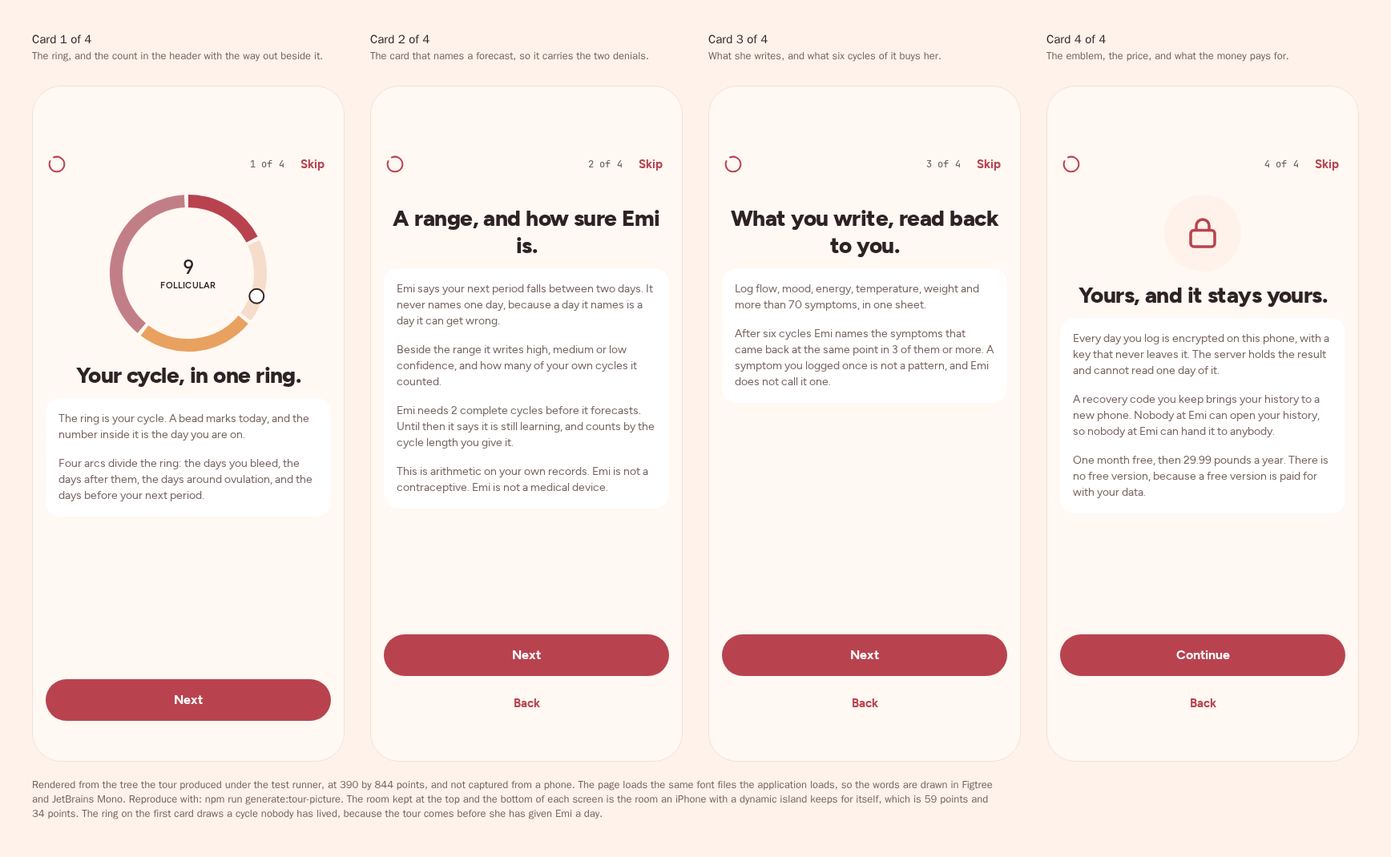
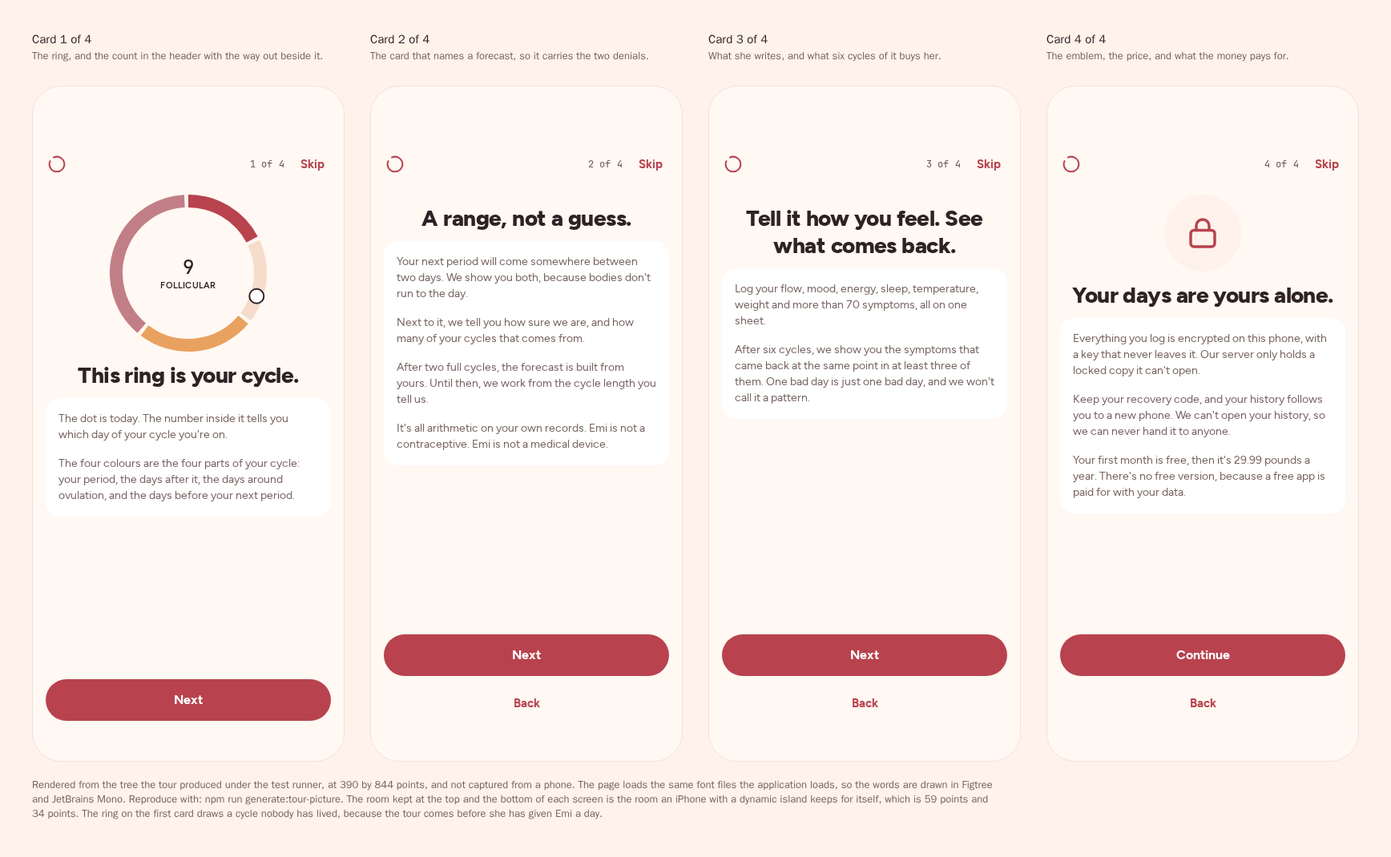
EMI: fix: the voice guide states the denials after a full stop, and the tour picture takes the new buttons

diff --git a/brand/screens/tour.html b/brand/screens/tour.html
@@ -28,4 +28,4 @@ svg { flex-shrink: 0; }
 .title { font-size: 15px; font-weight: 600; color: #2E2224; margin: 0 0 2px; }
 .note { font-size: 13px; color: #76625F; margin: 0 0 12px; min-height: 34px; }
 .caveat { font-size: 13px; color: #76625F; margin: 20px 0 0; max-width: 1200px; }
-</style></head><body><div class="screens"><section class="screen"><p class="title">Card 1 of 4</p><p class="note">The ring, and the count in the header with the way out beside it.</p><div class="phone"><div style="background-color: #FFF8F3; flex: 1; padding-bottom: 34px; padding-left: 0px; padding-right: 0px; padding-top: 59px"><div style="align-items: center; flex-direction: row; justify-content: space-between; padding-left: 16px; padding-right: 16px; padding-top: 16px"><svg width="28" height="28" viewBox="0 0 24 24"><g stroke="#b8434e" stroke-width="1.75" stroke-linecap="round" stroke-linejoin="round"><path d="M4.75 8.62A8 8 0 1 0 8.62 4.75" fill="none"></path></g></svg><div style="align-items: center; flex-direction: row; gap: 12px"><div style="color: #76625F; font-family: JetBrainsMono-Medium; font-size: 12px; letter-spacing: 0.24px; line-height: 16px">1 of 4</div><div style="align-items: center; justify-content: center; min-height: 44px; min-width: 44px; padding-left: 8px; padding-right: 8px"><div style="color: #B8434E; font-family: Figtree-Bold; font-size: 15px; letter-spacing: 0px; line-height: 21px">Skip</div></div></div></div><div style="flex: 1; overflow: hidden"><div style="gap: 12px; padding-bottom: 16px; padding-left: 16px; padding-right: 16px; padding-top: 16px; min-height: 100%"><div style="align-items: center; justify-content: center"><div style="align-items: center; justify-content: center; height: 196px; width: 196px"><div style="opacity: 1; transform: scale(1)"><svg width="196" height="196" viewBox="0 0 196 196"><g><path d="M 98 8 A 90 90 0 0 1 177.57 55.946" stroke="#b8434e" stroke-width="16" fill="none"></path><path d="M 179.662 135.832 A 90 90 0 0 1 169.606 152.521" stroke="#f5dccb" stroke-width="16" fill="none"></path><path d="M 179.662 60.168 A 90 90 0 0 1 179.662 135.832" stroke="#f5dccb" stroke-width="16" fill="none"></path><path d="M 166.655 156.194 A 90 90 0 0 1 43.479 169.606" stroke="#e9a15f" stroke-width="16" fill="none"></path><path d="M 39.806 166.655 A 90 90 0 0 1 93.29 8.123" stroke="#c27e86" stroke-width="16" fill="none"></path><circle cx="183.2776607498776" cy="126.77013342042032" r="9" fill="#ffffff" stroke="#2e2224" stroke-width="2"></circle></g></svg></div><div style="align-items: center; bottom: 0px; justify-content: center; left: 0px; position: absolute; right: 0px; top: 0px"><div style="color: #2E2224; font-family: JetBrainsMono-Medium; font-size: 24px; letter-spacing: -0.48px; line-height: 30px">9</div><div style="font-family: Figtree-SemiBold; font-size: 11px; letter-spacing: 0.22px; line-height: 15px; text-transform: uppercase; color: #2E2224">Follicular</div></div></div></div><div style="color: #2E2224; font-family: Figtree-ExtraBold; font-size: 28px; letter-spacing: -0.56px; line-height: 34px; text-align: center">Your cycle, in one ring.</div><div style="background-color: #FFFFFF; border-color: #F1E1D6; border-radius: 18px; border-width: 1px; padding: 16px"><div style="color: #76625F; font-family: Figtree-Regular; font-size: 14px; letter-spacing: 0px; line-height: 20px">The ring is your cycle. A bead marks today, and the number inside it is the day you are on.</div><div style="color: #76625F; font-family: Figtree-Regular; font-size: 14px; letter-spacing: 0px; line-height: 20px; border-top-color: #F1E1D6; border-top-width: 1px; margin-top: 8px; padding-top: 8px">Four arcs divide the ring: the days you bleed, the days after them, the days around ovulation, and the days before your next period.</div></div></div></div><div style="border-top-color: #F1E1D6; border-top-width: 1px; padding: 16px"><div style="align-items: center; border-radius: 999px; justify-content: center; min-height: 48px; min-width: 44px; padding-left: 28px; padding-right: 28px; min-height: 52px; padding-left: 40px; padding-right: 40px; background-color: #B8434E"><div style="color: #FFFFFF; font-family: Figtree-Bold; font-size: 16px; letter-spacing: 0px; line-height: 22px">Next</div></div></div></div></div></section><section class="screen"><p class="title">Card 2 of 4</p><p class="note">The card that names a forecast, so it carries the two denials.</p><div class="phone"><div style="background-color: #FFF8F3; flex: 1; padding-bottom: 34px; padding-left: 0px; padding-right: 0px; padding-top: 59px"><div style="align-items: center; flex-direction: row; justify-content: space-between; padding-left: 16px; padding-right: 16px; padding-top: 16px"><svg width="28" height="28" viewBox="0 0 24 24"><g stroke="#b8434e" stroke-width="1.75" stroke-linecap="round" stroke-linejoin="round"><path d="M4.75 8.62A8 8 0 1 0 8.62 4.75" fill="none"></path></g></svg><div style="align-items: center; flex-direction: row; gap: 12px"><div style="color: #76625F; font-family: JetBrainsMono-Medium; font-size: 12px; letter-spacing: 0.24px; line-height: 16px">2 of 4</div><div style="align-items: center; justify-content: center; min-height: 44px; min-width: 44px; padding-left: 8px; padding-right: 8px"><div style="color: #B8434E; font-family: Figtree-Bold; font-size: 15px; letter-spacing: 0px; line-height: 21px">Skip</div></div></div></div><div style="flex: 1; overflow: hidden"><div style="gap: 12px; padding-bottom: 16px; padding-left: 16px; padding-right: 16px; padding-top: 16px; min-height: 100%"><div style="align-items: center; justify-content: center"></div><div style="color: #2E2224; font-family: Figtree-ExtraBold; font-size: 28px; letter-spacing: -0.56px; line-height: 34px; text-align: center">A range, and how sure Emi is.</div><div style="background-color: #FFFFFF; border-color: #F1E1D6; border-radius: 18px; border-width: 1px; padding: 16px"><div style="color: #76625F; font-family: Figtree-Regular; font-size: 14px; letter-spacing: 0px; line-height: 20px">Emi says your next period falls between two days. It never names one day, because a day it names is a day it can get wrong.</div><div style="color: #76625F; font-family: Figtree-Regular; font-size: 14px; letter-spacing: 0px; line-height: 20px; border-top-color: #F1E1D6; border-top-width: 1px; margin-top: 8px; padding-top: 8px">Beside the range it writes high, medium or low confidence, and how many of your own cycles it counted.</div><div style="color: #76625F; font-family: Figtree-Regular; font-size: 14px; letter-spacing: 0px; line-height: 20px; border-top-color: #F1E1D6; border-top-width: 1px; margin-top: 8px; padding-top: 8px">Emi needs 2 complete cycles before it forecasts. Until then it says it is still learning, and counts by the cycle length you give it.</div><div style="color: #76625F; font-family: Figtree-Regular; font-size: 14px; letter-spacing: 0px; line-height: 20px; border-top-color: #F1E1D6; border-top-width: 1px; margin-top: 8px; padding-top: 8px">This is arithmetic on your own records. Emi is not a contraceptive. Emi is not a medical device.</div></div></div></div><div style="border-top-color: #F1E1D6; border-top-width: 1px; padding: 16px"><div style="align-items: center; border-radius: 999px; justify-content: center; min-height: 48px; min-width: 44px; padding-left: 28px; padding-right: 28px; min-height: 52px; padding-left: 40px; padding-right: 40px; background-color: #B8434E"><div style="color: #FFFFFF; font-family: Figtree-Bold; font-size: 16px; letter-spacing: 0px; line-height: 22px">Next</div></div><div style="align-items: center; padding-top: 12px"><div style="align-items: center; justify-content: center; min-height: 44px; min-width: 44px; padding-left: 8px; padding-right: 8px"><div style="color: #B8434E; font-family: Figtree-Bold; font-size: 15px; letter-spacing: 0px; line-height: 21px">Back</div></div></div></div></div></div></section><section class="screen"><p class="title">Card 3 of 4</p><p class="note">What she writes, and what six cycles of it buys her.</p><div class="phone"><div style="background-color: #FFF8F3; flex: 1; padding-bottom: 34px; padding-left: 0px; padding-right: 0px; padding-top: 59px"><div style="align-items: center; flex-direction: row; justify-content: space-between; padding-left: 16px; padding-right: 16px; padding-top: 16px"><svg width="28" height="28" viewBox="0 0 24 24"><g stroke="#b8434e" stroke-width="1.75" stroke-linecap="round" stroke-linejoin="round"><path d="M4.75 8.62A8 8 0 1 0 8.62 4.75" fill="none"></path></g></svg><div style="align-items: center; flex-direction: row; gap: 12px"><div style="color: #76625F; font-family: JetBrainsMono-Medium; font-size: 12px; letter-spacing: 0.24px; line-height: 16px">3 of 4</div><div style="align-items: center; justify-content: center; min-height: 44px; min-width: 44px; padding-left: 8px; padding-right: 8px"><div style="color: #B8434E; font-family: Figtree-Bold; font-size: 15px; letter-spacing: 0px; line-height: 21px">Skip</div></div></div></div><div style="flex: 1; overflow: hidden"><div style="gap: 12px; padding-bottom: 16px; padding-left: 16px; padding-right: 16px; padding-top: 16px; min-height: 100%"><div style="align-items: center; justify-content: center"></div><div style="color: #2E2224; font-family: Figtree-ExtraBold; font-size: 28px; letter-spacing: -0.56px; line-height: 34px; text-align: center">What you write, read back to you.</div><div style="background-color: #FFFFFF; border-color: #F1E1D6; border-radius: 18px; border-width: 1px; padding: 16px"><div style="color: #76625F; font-family: Figtree-Regular; font-size: 14px; letter-spacing: 0px; line-height: 20px">Log flow, mood, energy, temperature, weight and more than 70 symptoms, in one sheet.</div><div style="color: #76625F; font-family: Figtree-Regular; font-size: 14px; letter-spacing: 0px; line-height: 20px; border-top-color: #F1E1D6; border-top-width: 1px; margin-top: 8px; padding-top: 8px">After six cycles Emi names the symptoms that came back at the same point in 3 of them or more. A symptom you logged once is not a pattern, and Emi does not call it one.</div></div></div></div><div style="border-top-color: #F1E1D6; border-top-width: 1px; padding: 16px"><div style="align-items: center; border-radius: 999px; justify-content: center; min-height: 48px; min-width: 44px; padding-left: 28px; padding-right: 28px; min-height: 52px; padding-left: 40px; padding-right: 40px; background-color: #B8434E"><div style="color: #FFFFFF; font-family: Figtree-Bold; font-size: 16px; letter-spacing: 0px; line-height: 22px">Next</div></div><div style="align-items: center; padding-top: 12px"><div style="align-items: center; justify-content: center; min-height: 44px; min-width: 44px; padding-left: 8px; padding-right: 8px"><div style="color: #B8434E; font-family: Figtree-Bold; font-size: 15px; letter-spacing: 0px; line-height: 21px">Back</div></div></div></div></div></div></section><section class="screen"><p class="title">Card 4 of 4</p><p class="note">The emblem, the price, and what the money pays for.</p><div class="phone"><div style="background-color: #FFF8F3; flex: 1; padding-bottom: 34px; padding-left: 0px; padding-right: 0px; padding-top: 59px"><div style="align-items: center; flex-direction: row; justify-content: space-between; padding-left: 16px; padding-right: 16px; padding-top: 16px"><svg width="28" height="28" viewBox="0 0 24 24"><g stroke="#b8434e" stroke-width="1.75" stroke-linecap="round" stroke-linejoin="round"><path d="M4.75 8.62A8 8 0 1 0 8.62 4.75" fill="none"></path></g></svg><div style="align-items: center; flex-direction: row; gap: 12px"><div style="color: #76625F; font-family: JetBrainsMono-Medium; font-size: 12px; letter-spacing: 0.24px; line-height: 16px">4 of 4</div><div style="align-items: center; justify-content: center; min-height: 44px; min-width: 44px; padding-left: 8px; padding-right: 8px"><div style="color: #B8434E; font-family: Figtree-Bold; font-size: 15px; letter-spacing: 0px; line-height: 21px">Skip</div></div></div></div><div style="flex: 1; overflow: hidden"><div style="gap: 12px; padding-bottom: 16px; padding-left: 16px; padding-right: 16px; padding-top: 16px; min-height: 100%"><div style="align-items: center; justify-content: center"><div style="align-items: center; background-color: #FFF2EB; border-radius: 999px; height: 96px; justify-content: center; width: 96px"><svg width="48" height="48" viewBox="0 0 24 24"><g stroke="#b8434e" stroke-width="1.75" stroke-linecap="round" stroke-linejoin="round"><rect x="4.5" y="10.25" width="15" height="10.25" rx="2" fill="none"></rect><path d="M8 10.25V7.5a4 4 0 0 1 8 0v2.75" fill="none"></path></g></svg></div></div><div style="color: #2E2224; font-family: Figtree-ExtraBold; font-size: 28px; letter-spacing: -0.56px; line-height: 34px; text-align: center">Yours, and it stays yours.</div><div style="background-color: #FFFFFF; border-color: #F1E1D6; border-radius: 18px; border-width: 1px; padding: 16px"><div style="color: #76625F; font-family: Figtree-Regular; font-size: 14px; letter-spacing: 0px; line-height: 20px">Every day you log is encrypted on this phone, with a key that never leaves it. The server holds the result and cannot read one day of it.</div><div style="color: #76625F; font-family: Figtree-Regular; font-size: 14px; letter-spacing: 0px; line-height: 20px; border-top-color: #F1E1D6; border-top-width: 1px; margin-top: 8px; padding-top: 8px">A recovery code you keep brings your history to a new phone. Nobody at Emi can open your history, so nobody at Emi can hand it to anybody.</div><div style="color: #76625F; font-family: Figtree-Regular; font-size: 14px; letter-spacing: 0px; line-height: 20px; border-top-color: #F1E1D6; border-top-width: 1px; margin-top: 8px; padding-top: 8px">One month free, then 29.99 pounds a year. There is no free version, because a free version is paid for with your data.</div></div></div></div><div style="border-top-color: #F1E1D6; border-top-width: 1px; padding: 16px"><div style="align-items: center; border-radius: 999px; justify-content: center; min-height: 48px; min-width: 44px; padding-left: 28px; padding-right: 28px; min-height: 52px; padding-left: 40px; padding-right: 40px; background-color: #B8434E"><div style="color: #FFFFFF; font-family: Figtree-Bold; font-size: 16px; letter-spacing: 0px; line-height: 22px">Continue</div></div><div style="align-items: center; padding-top: 12px"><div style="align-items: center; justify-content: center; min-height: 44px; min-width: 44px; padding-left: 8px; padding-right: 8px"><div style="color: #B8434E; font-family: Figtree-Bold; font-size: 15px; letter-spacing: 0px; line-height: 21px">Back</div></div></div></div></div></div></section></div><p class="caveat">Rendered from the tree the tour produced under the test runner, at 390 by 844 points, and not captured from a phone. The page loads the same font files the application loads, so the words are drawn in Figtree and JetBrains Mono. Reproduce with: npm run generate:tour-picture. The room kept at the top and the bottom of each screen is the room an iPhone with a dynamic island keeps for itself, which is 59 points and 34 points. The ring on the first card draws a cycle nobody has lived, because the tour comes before she has given Emi a day.</p></body></html>
+</style></head><body><div class="screens"><section class="screen"><p class="title">Card 1 of 4</p><p class="note">The ring, and the count in the header with the way out beside it.</p><div class="phone"><div style="background-color: #FFF8F3; flex: 1; padding-bottom: 34px; padding-left: 0px; padding-right: 0px; padding-top: 59px"><div style="align-items: center; flex-direction: row; justify-content: space-between; padding-left: 16px; padding-right: 16px; padding-top: 16px"><svg width="28" height="28" viewBox="0 0 24 24"><g stroke="#b8434e" stroke-width="1.75" stroke-linecap="round" stroke-linejoin="round"><path d="M4.75 8.62A8 8 0 1 0 8.62 4.75" fill="none"></path></g></svg><div style="align-items: center; flex-direction: row; gap: 12px"><div style="color: #76625F; font-family: JetBrainsMono-Medium; font-size: 12px; letter-spacing: 0.24px; line-height: 16px">1 of 4</div><div style="align-items: center; justify-content: center; min-height: 44px; min-width: 44px; padding-left: 8px; padding-right: 8px"><div style="color: #B8434E; font-family: Figtree-Bold; font-size: 15px; letter-spacing: 0px; line-height: 21px">Skip</div></div></div></div><div style="flex: 1; overflow: hidden"><div style="gap: 12px; padding-bottom: 16px; padding-left: 16px; padding-right: 16px; padding-top: 16px; min-height: 100%"><div style="align-items: center; justify-content: center"><div style="align-items: center; justify-content: center; height: 196px; width: 196px"><div style="opacity: 1; transform: scale(1)"><svg width="196" height="196" viewBox="0 0 196 196"><g><path d="M 98 8 A 90 90 0 0 1 177.57 55.946" stroke="#b8434e" stroke-width="16" fill="none"></path><path d="M 179.662 135.832 A 90 90 0 0 1 169.606 152.521" stroke="#f5dccb" stroke-width="16" fill="none"></path><path d="M 179.662 60.168 A 90 90 0 0 1 179.662 135.832" stroke="#f5dccb" stroke-width="16" fill="none"></path><path d="M 166.655 156.194 A 90 90 0 0 1 43.479 169.606" stroke="#e9a15f" stroke-width="16" fill="none"></path><path d="M 39.806 166.655 A 90 90 0 0 1 93.29 8.123" stroke="#c27e86" stroke-width="16" fill="none"></path><circle cx="183.2776607498776" cy="126.77013342042032" r="9" fill="#ffffff" stroke="#2e2224" stroke-width="2"></circle></g></svg></div><div style="align-items: center; bottom: 0px; justify-content: center; left: 0px; position: absolute; right: 0px; top: 0px"><div style="color: #2E2224; font-family: JetBrainsMono-Medium; font-size: 24px; letter-spacing: -0.48px; line-height: 30px">9</div><div style="font-family: Figtree-SemiBold; font-size: 11px; letter-spacing: 0.22px; line-height: 15px; text-transform: uppercase; color: #2E2224">Follicular</div></div></div></div><div style="color: #2E2224; font-family: Figtree-ExtraBold; font-size: 28px; letter-spacing: -0.56px; line-height: 34px; text-align: center">This ring is your cycle.</div><div style="background-color: #FFFFFF; border-color: #F1E1D6; border-radius: 18px; border-width: 1px; padding: 16px"><div style="color: #76625F; font-family: Figtree-Regular; font-size: 14px; letter-spacing: 0px; line-height: 20px">The dot is today. The number inside it tells you which day of your cycle you're on.</div><div style="color: #76625F; font-family: Figtree-Regular; font-size: 14px; letter-spacing: 0px; line-height: 20px; border-top-color: #F1E1D6; border-top-width: 1px; margin-top: 8px; padding-top: 8px">The four colours are the four parts of your cycle: your period, the days after it, the days around ovulation, and the days before your next period.</div></div></div></div><div style="border-top-color: #F1E1D6; border-top-width: 1px; padding: 16px"><div style="align-items: center; border-radius: 999px; justify-content: center; min-height: 48px; min-width: 44px; padding-left: 28px; padding-right: 28px; min-height: 52px; padding-left: 40px; padding-right: 40px; background-color: #B8434E"><div style="color: #FFFFFF; font-family: Figtree-Bold; font-size: 16px; letter-spacing: 0px; line-height: 22px">Next</div></div></div></div></div></section><section class="screen"><p class="title">Card 2 of 4</p><p class="note">The card that names a forecast, so it carries the two denials.</p><div class="phone"><div style="background-color: #FFF8F3; flex: 1; padding-bottom: 34px; padding-left: 0px; padding-right: 0px; padding-top: 59px"><div style="align-items: center; flex-direction: row; justify-content: space-between; padding-left: 16px; padding-right: 16px; padding-top: 16px"><svg width="28" height="28" viewBox="0 0 24 24"><g stroke="#b8434e" stroke-width="1.75" stroke-linecap="round" stroke-linejoin="round"><path d="M4.75 8.62A8 8 0 1 0 8.62 4.75" fill="none"></path></g></svg><div style="align-items: center; flex-direction: row; gap: 12px"><div style="color: #76625F; font-family: JetBrainsMono-Medium; font-size: 12px; letter-spacing: 0.24px; line-height: 16px">2 of 4</div><div style="align-items: center; justify-content: center; min-height: 44px; min-width: 44px; padding-left: 8px; padding-right: 8px"><div style="color: #B8434E; font-family: Figtree-Bold; font-size: 15px; letter-spacing: 0px; line-height: 21px">Skip</div></div></div></div><div style="flex: 1; overflow: hidden"><div style="gap: 12px; padding-bottom: 16px; padding-left: 16px; padding-right: 16px; padding-top: 16px; min-height: 100%"><div style="align-items: center; justify-content: center"></div><div style="color: #2E2224; font-family: Figtree-ExtraBold; font-size: 28px; letter-spacing: -0.56px; line-height: 34px; text-align: center">A range, not a guess.</div><div style="background-color: #FFFFFF; border-color: #F1E1D6; border-radius: 18px; border-width: 1px; padding: 16px"><div style="color: #76625F; font-family: Figtree-Regular; font-size: 14px; letter-spacing: 0px; line-height: 20px">Your next period will come somewhere between two days. We show you both, because bodies don't run to the day.</div><div style="color: #76625F; font-family: Figtree-Regular; font-size: 14px; letter-spacing: 0px; line-height: 20px; border-top-color: #F1E1D6; border-top-width: 1px; margin-top: 8px; padding-top: 8px">Next to it, we tell you how sure we are, and how many of your cycles that comes from.</div><div style="color: #76625F; font-family: Figtree-Regular; font-size: 14px; letter-spacing: 0px; line-height: 20px; border-top-color: #F1E1D6; border-top-width: 1px; margin-top: 8px; padding-top: 8px">After two full cycles, the forecast is built from yours. Until then, we work from the cycle length you tell us.</div><div style="color: #76625F; font-family: Figtree-Regular; font-size: 14px; letter-spacing: 0px; line-height: 20px; border-top-color: #F1E1D6; border-top-width: 1px; margin-top: 8px; padding-top: 8px">It's all arithmetic on your own records. Emi is not a contraceptive. Emi is not a medical device.</div></div></div></div><div style="border-top-color: #F1E1D6; border-top-width: 1px; padding: 16px"><div style="align-items: center; border-radius: 999px; justify-content: center; min-height: 48px; min-width: 44px; padding-left: 28px; padding-right: 28px; min-height: 52px; padding-left: 40px; padding-right: 40px; background-color: #B8434E"><div style="color: #FFFFFF; font-family: Figtree-Bold; font-size: 16px; letter-spacing: 0px; line-height: 22px">Next</div></div><div style="align-items: center; padding-top: 12px"><div style="align-items: center; justify-content: center; min-height: 44px; min-width: 44px; padding-left: 8px; padding-right: 8px"><div style="color: #B8434E; font-family: Figtree-Bold; font-size: 15px; letter-spacing: 0px; line-height: 21px">Back</div></div></div></div></div></div></section><section class="screen"><p class="title">Card 3 of 4</p><p class="note">What she writes, and what six cycles of it buys her.</p><div class="phone"><div style="background-color: #FFF8F3; flex: 1; padding-bottom: 34px; padding-left: 0px; padding-right: 0px; padding-top: 59px"><div style="align-items: center; flex-direction: row; justify-content: space-between; padding-left: 16px; padding-right: 16px; padding-top: 16px"><svg width="28" height="28" viewBox="0 0 24 24"><g stroke="#b8434e" stroke-width="1.75" stroke-linecap="round" stroke-linejoin="round"><path d="M4.75 8.62A8 8 0 1 0 8.62 4.75" fill="none"></path></g></svg><div style="align-items: center; flex-direction: row; gap: 12px"><div style="color: #76625F; font-family: JetBrainsMono-Medium; font-size: 12px; letter-spacing: 0.24px; line-height: 16px">3 of 4</div><div style="align-items: center; justify-content: center; min-height: 44px; min-width: 44px; padding-left: 8px; padding-right: 8px"><div style="color: #B8434E; font-family: Figtree-Bold; font-size: 15px; letter-spacing: 0px; line-height: 21px">Skip</div></div></div></div><div style="flex: 1; overflow: hidden"><div style="gap: 12px; padding-bottom: 16px; padding-left: 16px; padding-right: 16px; padding-top: 16px; min-height: 100%"><div style="align-items: center; justify-content: center"></div><div style="color: #2E2224; font-family: Figtree-ExtraBold; font-size: 28px; letter-spacing: -0.56px; line-height: 34px; text-align: center">Tell it how you feel. See what comes back.</div><div style="background-color: #FFFFFF; border-color: #F1E1D6; border-radius: 18px; border-width: 1px; padding: 16px"><div style="color: #76625F; font-family: Figtree-Regular; font-size: 14px; letter-spacing: 0px; line-height: 20px">Log your flow, mood, energy, sleep, temperature, weight and more than 70 symptoms, all on one sheet.</div><div style="color: #76625F; font-family: Figtree-Regular; font-size: 14px; letter-spacing: 0px; line-height: 20px; border-top-color: #F1E1D6; border-top-width: 1px; margin-top: 8px; padding-top: 8px">After six cycles, we show you the symptoms that came back at the same point in at least three of them. One bad day is just one bad day, and we won't call it a pattern.</div></div></div></div><div style="border-top-color: #F1E1D6; border-top-width: 1px; padding: 16px"><div style="align-items: center; border-radius: 999px; justify-content: center; min-height: 48px; min-width: 44px; padding-left: 28px; padding-right: 28px; min-height: 52px; padding-left: 40px; padding-right: 40px; background-color: #B8434E"><div style="color: #FFFFFF; font-family: Figtree-Bold; font-size: 16px; letter-spacing: 0px; line-height: 22px">Next</div></div><div style="align-items: center; padding-top: 12px"><div style="align-items: center; justify-content: center; min-height: 44px; min-width: 44px; padding-left: 8px; padding-right: 8px"><div style="color: #B8434E; font-family: Figtree-Bold; font-size: 15px; letter-spacing: 0px; line-height: 21px">Back</div></div></div></div></div></div></section><section class="screen"><p class="title">Card 4 of 4</p><p class="note">The emblem, the price, and what the money pays for.</p><div class="phone"><div style="background-color: #FFF8F3; flex: 1; padding-bottom: 34px; padding-left: 0px; padding-right: 0px; padding-top: 59px"><div style="align-items: center; flex-direction: row; justify-content: space-between; padding-left: 16px; padding-right: 16px; padding-top: 16px"><svg width="28" height="28" viewBox="0 0 24 24"><g stroke="#b8434e" stroke-width="1.75" stroke-linecap="round" stroke-linejoin="round"><path d="M4.75 8.62A8 8 0 1 0 8.62 4.75" fill="none"></path></g></svg><div style="align-items: center; flex-direction: row; gap: 12px"><div style="color: #76625F; font-family: JetBrainsMono-Medium; font-size: 12px; letter-spacing: 0.24px; line-height: 16px">4 of 4</div><div style="align-items: center; justify-content: center; min-height: 44px; min-width: 44px; padding-left: 8px; padding-right: 8px"><div style="color: #B8434E; font-family: Figtree-Bold; font-size: 15px; letter-spacing: 0px; line-height: 21px">Skip</div></div></div></div><div style="flex: 1; overflow: hidden"><div style="gap: 12px; padding-bottom: 16px; padding-left: 16px; padding-right: 16px; padding-top: 16px; min-height: 100%"><div style="align-items: center; justify-content: center"><div style="align-items: center; background-color: #FFF2EB; border-radius: 999px; height: 96px; justify-content: center; width: 96px"><svg width="48" height="48" viewBox="0 0 24 24"><g stroke="#b8434e" stroke-width="1.75" stroke-linecap="round" stroke-linejoin="round"><rect x="4.5" y="10.25" width="15" height="10.25" rx="2" fill="none"></rect><path d="M8 10.25V7.5a4 4 0 0 1 8 0v2.75" fill="none"></path></g></svg></div></div><div style="color: #2E2224; font-family: Figtree-ExtraBold; font-size: 28px; letter-spacing: -0.56px; line-height: 34px; text-align: center">Your days are yours alone.</div><div style="background-color: #FFFFFF; border-color: #F1E1D6; border-radius: 18px; border-width: 1px; padding: 16px"><div style="color: #76625F; font-family: Figtree-Regular; font-size: 14px; letter-spacing: 0px; line-height: 20px">Everything you log is encrypted on this phone, with a key that never leaves it. Our server only holds a locked copy it can't open.</div><div style="color: #76625F; font-family: Figtree-Regular; font-size: 14px; letter-spacing: 0px; line-height: 20px; border-top-color: #F1E1D6; border-top-width: 1px; margin-top: 8px; padding-top: 8px">Keep your recovery code, and your history follows you to a new phone. We can't open your history, so we can never hand it to anyone.</div><div style="color: #76625F; font-family: Figtree-Regular; font-size: 14px; letter-spacing: 0px; line-height: 20px; border-top-color: #F1E1D6; border-top-width: 1px; margin-top: 8px; padding-top: 8px">Your first month is free, then it's 29.99 pounds a year. There's no free version, because a free app is paid for with your data.</div></div></div></div><div style="border-top-color: #F1E1D6; border-top-width: 1px; padding: 16px"><div style="align-items: center; border-radius: 999px; justify-content: center; min-height: 48px; min-width: 44px; padding-left: 28px; padding-right: 28px; min-height: 52px; padding-left: 40px; padding-right: 40px; background-color: #B8434E"><div style="color: #FFFFFF; font-family: Figtree-Bold; font-size: 16px; letter-spacing: 0px; line-height: 22px">Continue</div></div><div style="align-items: center; padding-top: 12px"><div style="align-items: center; justify-content: center; min-height: 44px; min-width: 44px; padding-left: 8px; padding-right: 8px"><div style="color: #B8434E; font-family: Figtree-Bold; font-size: 15px; letter-spacing: 0px; line-height: 21px">Back</div></div></div></div></div></div></section></div><p class="caveat">Rendered from the tree the tour produced under the test runner, at 390 by 844 points, and not captured from a phone. The page loads the same font files the application loads, so the words are drawn in Figtree and JetBrains Mono. Reproduce with: npm run generate:tour-picture. The room kept at the top and the bottom of each screen is the room an iPhone with a dynamic island keeps for itself, which is 59 points and 34 points. The ring on the first card draws a cycle nobody has lived, because the tour comes before she has given Emi a day.</p></body></html>

diff --git a/docs/design/voice.md b/docs/design/voice.md
@@ -43,8 +43,8 @@ Every gate in the pipeline still applies, unchanged.
 - `tools/pipeline/singleDayForecast.ts` keeps the two single day fields out of the interface.
 - `tools/pipeline/screenWords.ts` refuses a word written into a screen instead of the catalogue.
 
-The two denials travel word for word, after a full stop, on each screen that names a forecast:
-Emi is not a contraceptive. Emi is not a medical device.
+The two denials travel word for word on each screen that names a forecast, and a full stop comes
+before each of them. Emi is not a contraceptive. Emi is not a medical device.
 
 ## Where the words live
 
